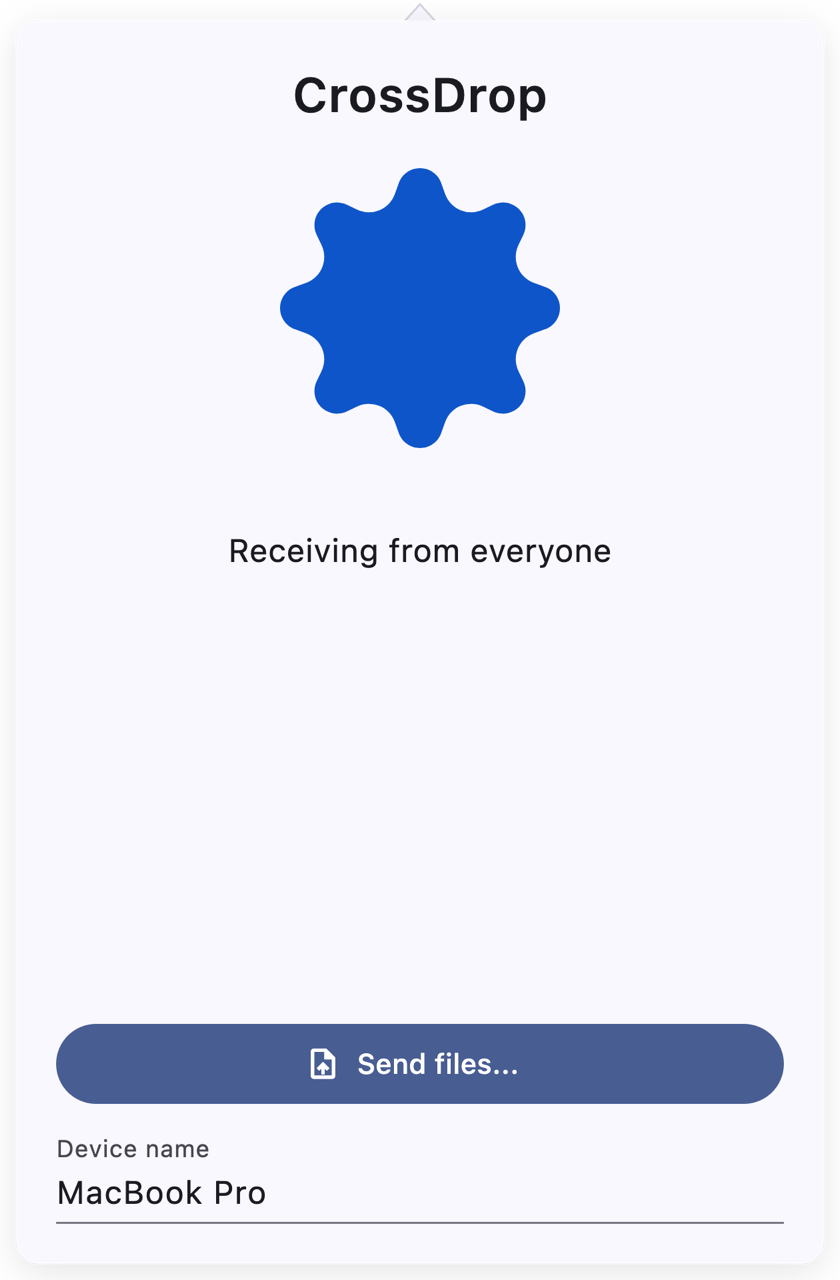
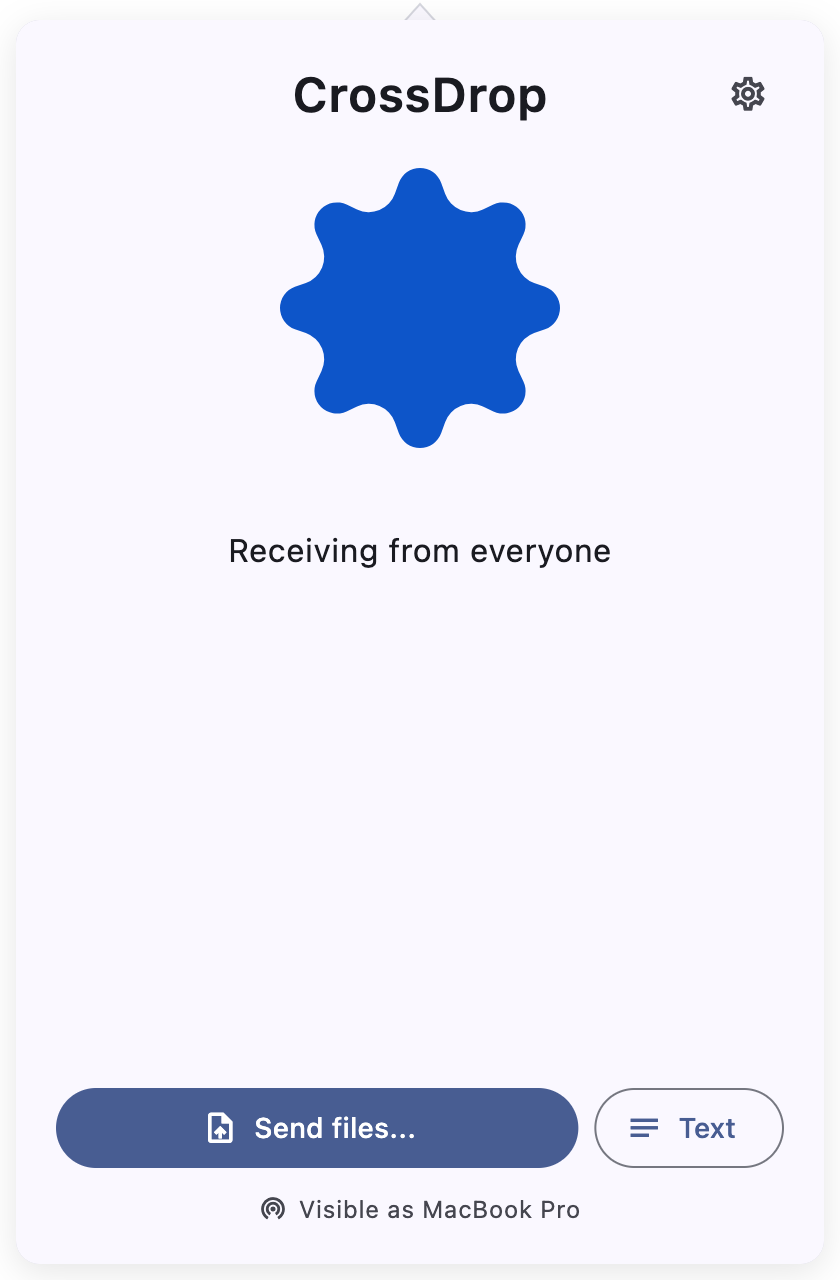
docs: refresh menu-bar screenshots and add a settings screenshot
Regenerate the receiving/sending popover screenshots to reflect the current
UI (settings gear, Send/Text buttons, "Visible as <name>" notice) and add a
new screenshot of the settings panel.

Changed region(s): [[0.0619, 0.7812, 0.9286, 0.9688], [0.8667, 0.0625, 0.9286, 0.0938], [0.5571, 0.0625, 0.5881, 0.0938]]

diff --git a/README.md b/README.md
@@ -19,9 +19,9 @@ CrossDrop is based on [NearDrop](https://github.com/grishka/NearDrop), a Swift i
 
 ## Screenshots
 
-| Receiving | Sending |
-| :---: | :---: |
-| <img src="docs/screenshots/receiving.png" width="300" alt="CrossDrop menu-bar popover, ready to receive files"> | <img src="docs/screenshots/sending.png" width="300" alt="CrossDrop sending a file, showing a QR code to scan from Quick Share"> |
+| Receiving | Sending | Settings |
+| :---: | :---: | :---: |
+| <img src="docs/screenshots/receiving.png" width="260" alt="CrossDrop menu-bar popover, ready to receive files"> | <img src="docs/screenshots/sending.png" width="260" alt="CrossDrop sending a file, showing a QR code to scan from Quick Share"> | <img src="docs/screenshots/settings.png" width="260" alt="CrossDrop settings: device name, visibility, download folder, launch at login, appearance, and updates"> |
 
 ## Installing
 